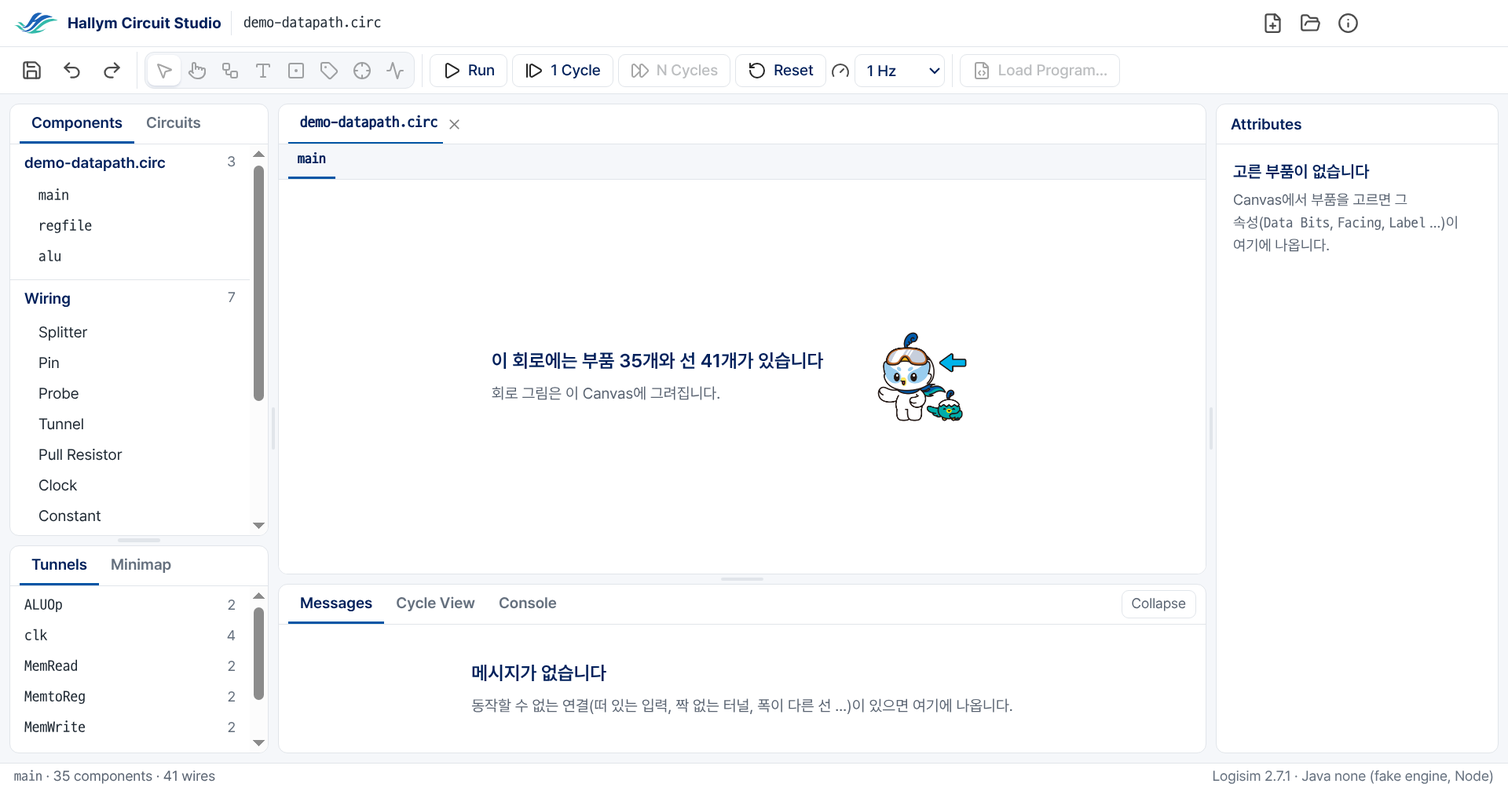
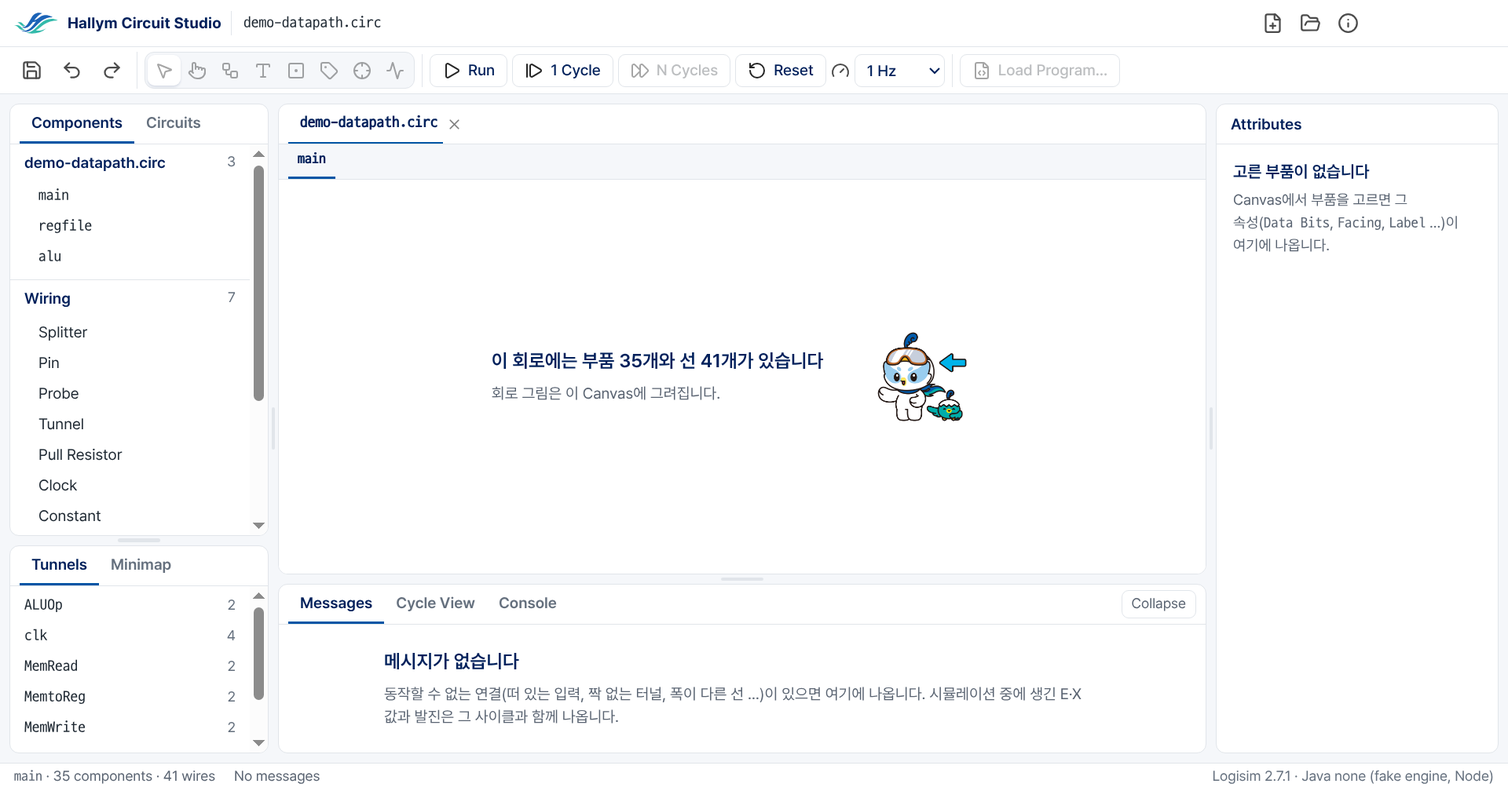
Document Messages in the engine API, parity table and decisions; retake screens

Changed region(s): [[0.25, 0.8304, 0.7188, 0.9226], [0.1875, 0.9841, 0.2188, 1.0], [0.1562, 0.9534, 0.1875, 0.9841]]

diff --git a/docs/DECISIONS.md b/docs/DECISIONS.md
@@ -1695,3 +1695,20 @@
 - **이유:** 사용자 결정이다. 어셈블을 Hallym MIPS 하나에 맡기면 두 도구가 같은 기계어를 쓰는 것이 파일 하나로 보장되고, 이 저장소에서 C++ 빌드·SPIM 소스·Windows 네이티브 빌드가 모두 빠진다. 오라클을 지우기 전에 굳혀 두면 SPIM 없이도 참조 CPU·디스어셈블러·메모리 배치가 SPIM과 같다는 것을 계속 확인한다. 옛 속성을 읽기만 하면 옛 과제 파일이 바이트까지 그대로다.
 - **대안(버림):** 옛 .s 경로를 열 때 자동으로 같은 이름의 .hmx로 바꾸기(학생 모르게 파일이 바뀌고 저장 바이트가 달라진다). 트랙 A에서 파일을 열 때 대화상자(`-tty`·헤드리스에서 깨지고 원조에는 부를 곳이 없다). 부품 몸체에 빨간 줄(진단처럼 읽힌다). `.s`를 받되 "지원하지 않음"만 말하기(할 일을 말하지 않는다). SPIM 시험을 "SPIM이 있으면 돌고 없으면 건너뜀"으로 두기(CI에서 늘 건너뛰어 아무것도 확인하지 않는다). deep factorial을 새 .hmx 파일로 굳히기(한 워드 차이를 시험 안에서 보이는 편이 읽기 쉽다). NOTICE에서 SPIM을 빼기(SPIM 프로그램의 목록이 저장소에 남는다). 사용자 문장을 글자 그대로 쓰기(문구 규칙 검사에 걸린다).
 - **테스트:** lib-mips `AssemblySourceTest`(경로 규칙, 파일·이미지 이름, 두 언어 문장과 문구 규칙), `AssemblySourceFileTest`(원조 2.7.1 + 이 jar: .s 경로의 옛 파일이 속성 그대로 열리고 같은 바이트로 저장, 메뉴 "Load .hmx for sum.s...", 옛 경로 다시 불러오기 = 문장, sum.hmx를 불러오면 IM·DM의 `source`가 `prog/sum.hmx`로 바뀌고 저장본에 .s 경로가 없음), `ProgramLoadIntegrationTest.anAssemblyFileGivesTheFactAndLoadsNothing`, `LoadSummaryTest.menuIsLoadProgramWithTheImageFilterOnly`(거르개 하나, 모든 파일 없음, 같은 이름 .hmx 골라 둠), `HmxConsistencyTest`(굳힌 이미지 15개 = SPIM 목록, `trackALoadsExecutableImagesOnly`), `RefMipsTest`(굳힌 오라클, 패치한 deep factorial), `SpimDumpListingTest`, `MergedDataMemoryTest`, `HallymMipsGoldenTest.oracleFilesSayHowTheyWereMade`, 돌연변이 테스트 대상에 `ProgramLoadIntegrationTest`를 더함. 엔진 `AssemblySourceEngineTest`(사실·속성 글·저장 같음, .hmx 경로는 사실 아님, 속성을 .hmx로 바꾸면 사실이 없어짐). 포크 앱 `CycleModelTest`, `CycleViewGuiTest.consoleTabShowsEveryOutputAndOldSourcesAreNotReloaded`, `PaletteTest`, `UiLanguageTest`. 저장소 검사 `verify-vendor`(logisim만, spim이 다시 생기면 실패), `check-engine-unchanged`, `check-upstream-markers`, 트랙 A 포장 스크립트를 로컬에서 돌려 zip에 jar·안내·라이선스만 있는지 봤다.
+
+## D-143 Messages(N-13): v1 진단을 엔진 API로, 두 벌 문구, 가까운 이름은 하나일 때만, 화면의 목록과 "이곳 보이기" 사건
+
+- **날짜:** 2026-09-28
+- **결정:**
+  1. **진단은 v1 코드 그대로, 화면 없는 부분만 떼어 쓴다.** 정적 검사(`StaticCheck`), 동적 검사(`DynamicCheck`: E 발생, X 쓰기), MIPS 값 검사(`MipsCheck`), 진동(`Oscillation`), E·X 출처(`OriginTrace`·`OriginText`)는 `:app`의 GUI 없는 코드를 그대로 부른다. Swing에 묶인 `Diagnostics`에서 목록 모으기(정적 목록, 기록 엔진이 적는 스텝마다 새 스텝만 보는 동적 목록, 진동 한 줄, 원인이 정적 진단과 같은 동적 진단 빼기, 진동 중이면 같은 고리의 조합 루프를 진동으로 바꾸기)를 새 GUI 없는 클래스 `kr.ac.hallym.hcs.app.diag.DiagnosticSet`으로 옮기고 `Diagnostics`(Swing 타이머·캔버스 이동)는 그것을 쓴다. 엔진 패키지(`com.cburch.*`)는 고치지 않았다.
+  2. **엔진 API(`docs/engine-api.md` "diag·trace"):** `diag.list {fileId}` → `{fileId, messages}`, 알림 `diag.changed {fileId, messages}`(목록 전체, 화면이 마지막으로 받은 목록과 다를 때만, 16ms 프레임에 묶어), `trace.origin {fileId, circuitId, path?, netId}` → `{found, text?, origin?, chain}`. 메시지 = 안정된 `id`(종류·회로·경로·부품·선·자리가 같은 동안 그대로), `code`(v1 `Diagnostic.Kind` 이름 14가지), `kind`(`static`·`dynamic`), `severity`(늘 `error`: 모든 메시지가 동작할 수 없는 회로다), `text {ko, en}`, `near?`, `location {circuitId, root, path, components, wires, nets, at, cycle?}`, `appeared?`(E·X가 처음 보인 자리). 구현은 `kr.ac.hallym.hcs.engine.diag`(`DiagService`, 파일마다 `DiagSession`, `DiagText`, `NearNames`).
+  3. **언제 다시 도나:** 편집·되돌리기 뒤 120ms 동안 조용하면 엔진 스레드에서 정적 검사(ref-mips 약 70ms). `diag.list`는 밀린 검사를 먼저 돈다. 동적 진단은 기록 엔진(v1 `Recorder`)의 청취자로 원조 시뮬레이터 스레드에서 새 스텝만 보고, 바뀌었다는 표시만 엔진 스레드로 넘긴다. **`sim.reset`은 `Recorder.requestReset`으로 한다**(원조 Reset + 기록을 스텝 0부터 다시): 그래야 Reset 뒤 동적 진단이 걷힌다(`SimSession` 한 줄). **파일을 열 때 기록 엔진이 첫 상태를 스텝 0으로 적을 때까지 잠깐(많아야 2초) 기다린다:** 엔진은 파일을 연 첫 전파를 기록 엔진이 붙기 전에 끝낼 수 있어, 곧바로 `sim.cycles`를 보내면 첫 틱 뒤 상태가 스텝 0이 되어 사이클 번호가 v1보다 하나 밀렸다(고장 회로 골든을 처음 만들 때 드러남).
+  4. **두 벌 문구, 이름 뒤 조사 없음:** 한 진단을 영어·한국어로 함께 보낸다. v1 진단은 만들 때 그 언어로 원인 문장을 박아 두었으므로, 안쪽 문장(원인, E 표기)을 키와 이름만 든 `Diagnostic.Text`로 바꿨다(v1 `message()`·`args()`는 지금 언어 글자를 그대로 준다: v1 테스트·기대 문구 불변). 문구 틀은 엔진 묶음 `kr/ac/hallym/hcs/engine/diag/messages{,_ko}.properties`에 새로 썼다: 한국어 틀은 이름 인자 바로 뒤에 조사를 붙이지 않고 부품·포트·회로·터널 같은 낱말을 둔다("main › PC (Register) 부품은 클럭 입력 clk 포트가 …", "main 회로에는 RegWirte 터널과 이름이 같은 다른 터널이 없습니다."). v1 Swing 문구(`messages_ko.properties`)는 그대로 둔다(N-27에서 지운다). lib-mips 몸체 글자(부품 언어로 한 벌만 나온다)는 알려진 꼴 10가지를 틀로 두 벌 다시 쓰고, 모르는 글은 두 언어 모두 그대로 둔다. **엔진의 원조 언어는 영어로 고정한다**(`Main`: `LocaleManager.setLocale(ENGLISH)`): 한국어 Windows의 기본 로캘을 따르면 포트 이름이 "출력"이 되어 이름은 영어라는 규칙(v2 7절)이 깨진다.
+  5. **가까운 이름(v1에 없던 새 규칙, 확신할 때만):** 짝 없는 터널(값을 받는데 같은 이름의 터널이 없음)에만 짚는다. 후보 = 같은 회로의 다른 터널 이름 가운데 그 이름의 터널에 같은 비트 폭이 있는 것. 가깝다 = 대소문자만 다름, 또는 두 이름 모두 4글자 이상이고 숫자만 다른 것이 아니며 편집 거리(넣기·빼기·바꾸기·붙은 두 글자 맞바꾸기, 대소문자 무시)가 짧은 쪽 7글자까지 1, 8글자부터 2 이하. 3글자 이하는 대소문자만 다를 때만. **후보가 정확히 하나일 때만** 문장 끝에 "혹시 RegWrite?"(영어 "Did you mean RegWrite?")를 붙이고 `near`로 준다. v1은 편집 거리 2 안의 이름을 폭과 상관없이 모두 늘어놓았다(v1 문구는 그대로 둔다).
+  6. **화면(electron):** Messages 패널(`src/renderer/app/messages.ts`, 모델 `logic/messages.ts`)은 엔진 순서의 종류별 묶음(영어 이름 + 개수), 한 줄 = 빨간 점·엔진의 한국어 문장(16진 주소는 D2Coding)·오른쪽 끝 사실(`main`, `main · Cycle 0`). 누르면 고른 줄을 표시하고 **"이곳 보이기" 사건**(`src/renderer/app/reveal.ts`, 창의 `hcs:reveal` CustomEvent: `{fileId, messageId, circuitId, root, path, components, wires, nets, at, cycle}`)을 보낸다. 앱은 그 파일·회로 탭을 보이고, Canvas(N-05)·Cycle View(N-14)는 같은 사건을 받아 부품·선·넷 표시와 인스턴스 진입, 사이클 이동을 한다(이 PR에서는 캔버스 코드를 고치지 않았다: feat/canvas가 아직 main에 없다). 새 목록이 와도 자리(스크롤)·고른 메시지(id)·키보드 초점을 지킨다(v1 D-124, Y-10). 발진 메시지가 있으면 Reset Simulation(Reset 뒤 Simulation Enabled 다시 켬). 빈 패널은 무엇이 채우는지 말한다. Messages 탭에 개수 배지, 상태 표시줄에 `No messages`·`1 message`·`N messages`(누르면 Messages 탭을 연다). **메시지가 있는 동안 화면의 캐릭터를 모두 숨긴다**(`body.messages-shown`, 오류 대화상자·띠와 같은 규칙: 캐릭터는 동작할 수 없다는 말 옆에 서지 않는다). 창이 부를 수 있는 메서드에 `diag.list`·`trace.origin`을 더했다.
+  7. **가짜 엔진의 진단은 진짜 엔진의 말이다:** `electron/tools/diag-fixture.ts`가 진짜 엔진으로 고장 회로 셋(`electron/tests/fixtures/broken-datapath.circ`: demo-datapath에서 RegWrite 터널 하나를 RegWirte로, PC 클럭 터널을 빼고, MemWrite 입력 핀을 3상태로 둔 것; `tests/circ/faults/dynamic-x-write-data.circ`; `dynamic-oscillation.circ`)의 처음 목록과 사이클 뒤 목록을 받아 `electron/tests/fixtures/messages.json`에 적는다(엔진 id 대신 회로 이름·부품 이름과 자리·선 끝). 가짜 엔진은 파일 이름으로 그것을 찾아 자기 id로 바꿔 답하고, `sim.cycles` 뒤·`sim.reset` 뒤 `diag.changed`를 보낸다. 엔진 `DiagFixtureTest`가 CI마다 진짜 엔진의 말과 같은지 본다(다르면 도구를 다시 돌리라고 알린다).
+  8. **정상 회로 모음(0건):** tests/circ 바로 아래 회로(values.circ 제외: 일부러 합선·떠 있는 출력을 만든다)와 데모, libs의 adder_check·ripple_carry, 참조 CPU 둘. 빼는 것과 까닭: faults/(고장 모음), flow/(Signal Flow 고정 회로: 값을 주지 않은 3상태 입력 핀, 일부러 둔 고리, 클럭 없는 Register — 엔진은 이것들을 정확히 알린다), libs/1bit_adder(다른 회로가 쓰는 서브회로 라이브러리라 혼자 열면 입력 핀이 떠 있다).
+  9. **고장 회로 모음에 가까운 이름 셋을 더했다(v1 생성기 `FaultCircuits`):** `static-tunnel-near-hit`(RegWirte → RegWrite, 같은 폭), `static-tunnel-near-width`(RegWrite가 32비트: 짚지 않음), `static-tunnel-near-ambiguous`(ALUSrc 옆에 ALUSrcA·ALUSrcB: 짚지 않음). 기존 `static-tunnel-unpaired`는 RegDest → RegDst로 짚는다. v1 기대 문구(`messages.{ko,en}.expected`)에 세 줄이 늘었고, v2 문구 골든은 `messages.v2.{ko,en}.expected`다.
+- **이유:** v2 지시 3-3("기존 GUI 없는 코드를 엔진으로 옮겨 그대로 쓴다, Swing에 묶인 부분은 떼어 낸다")과 절대 규칙 6(동작하지 않는 회로만, 원인 한 곳, 사실과 위치). 진단 논리를 복사하지 않고 한 곳(`DiagnosticSet`)에 두어야 v1과 v2가 같은 회로에 같은 말을 한다(고장 모음의 사이클 번호까지 같다). 가까운 이름은 틀린 짐작이 학생을 엉뚱한 곳으로 보내므로(v2 7절 "확신할 때만") 후보 하나·같은 폭일 때만 말하고, 번호로 가른 신호(`r1`·`r2`, `ALUOp0`·`ALUOp1`)와 짧은 이름(`rs`·`rt`)은 한 글자 차이가 흔한 다른 신호라 뺐다. "이곳 보이기"를 창 사건으로 둔 것은 캔버스·사이클 뷰가 다른 PR에서 동시에 만들어지고 있어서, 서로의 코드를 고치지 않고 한 모양으로 만나기 위해서다.
+- **대안:** `Diagnostics`를 복사해 엔진 쪽에 다시 쓰기(두 벌이 갈라진다). 엔진이 한 언어만 보내고 화면이 언어를 바꿀 때 다시 묻기(v2 문구는 두 벌을 함께 보내는 것이 `mips.facts`의 선례). v1 한국어 문구(`messages_ko.properties`)를 직접 고치기(v1 기대 파일·Swing 테스트가 흔들리고, Swing은 곧 지운다). lib-mips의 문구를 두 벌로 내게 바꾸기(트랙 A jar와 원조 2.7.1 쪽 동작까지 건드린다). 가까운 이름을 v1처럼 여럿 늘어놓기(확신이 없다), 모든 이름(포트·핀)으로 넓히기(근거가 약하다; 터널만 이름으로 이어진다). 편집마다 곧바로 정적 검사(연달은 의도에서 헛일, ref-mips 70ms가 쌓인다). 목록 대신 변경분만 보내기(목록이 짧아 이득이 없고 화면 쪽이 복잡해진다).
+- **테스트:** 엔진 `DiagTest` 11개(정상 회로 11개가 열 때·6사이클 뒤 0건과 비어 있지 않은 `diag.changed` 없음; 고장 회로 22개가 회로마다 한 줄·종류·`kind`·`severity`·내부 포트 이름 없음·"충돌"은 충돌에만·공백, v2 두 벌 골든; 가까운 이름 넷(짚음 둘, 폭·후보 둘로 안 짚음); 자리의 부품·선·넷 id가 스냅숏에 있음; 같은 원인의 id 유지·상관없는 편집·고쳐서 0건 한 번·되돌려 다시 한 줄; 동적 진단의 사이클·`appeared`·Reset에 걷힘; 발진이 조합 루프를 바꾸고 Reset에 돌아옴(고리에 NAND); `trace.origin`의 원인·두 벌 문장·chain의 넷 id·정해진 선·없는 넷과 경로 오류 1; gateUndefined가 error일 때만 빈 게이트 입력; ref-mips 정적 검사 시간(timing 태그); 없는 파일), `DiagFixtureTest`(화면 고정 답 = 진짜 엔진), `NearNamesTest` 4개, `DiagTextTest` 4개(두 언어 같은 키, 한국어 틀의 이름 뒤 조사 없음, 안쪽 문장 언어, lib-mips 글자 두 벌). v1 `:app:test`·`:app:guiTest` 그대로 통과(기대 문구에 가까운 이름 세 줄). 화면: 단위 7개(`messages.test.ts`: 묶음·순서·Other, 개수 문구, 자리 줄, reveal 사본·사이클, 고른 것 유지, 고정 답의 모양과 조사 규칙, 가짜 엔진의 diag.*), e2e 5개(`messages.e2e.ts`: 묶음과 개수·탭 배지·상태 표시줄, 누르면 사건·회로 탭·초점 유지·Tab·Enter, 사이클 뒤 동적 메시지와 고른 것 유지·Reset, 발진과 Reset Simulation, 빈 상태·No messages·파일 따라가기·개수 누르면 탭 열기·캐릭터)를 네 크기(1920×1032, 1536×816, 1280×672, 960×1032)에서 모두 통과, 진짜 엔진 선택 실행 e2e 1개(고장 회로의 목록이 고정 답과 같고 사이클 뒤 동적 메시지), 돌연변이 9개 모두 잡힘. 스크린샷 `messages-list.png`, `messages-empty.png`.

diff --git a/docs/engine-api.md b/docs/engine-api.md
@@ -16,7 +16,7 @@ Hallym Circuit Studio 2의 화면(Electron)과 Java 엔진(headless Logisim 2.7.
 - stdin·stdout: **JSON-RPC 2.0, 한 줄에 한 JSON 객체**(UTF-8, 줄 끝 `\n`). 요청은 `{"jsonrpc":"2.0","id":N,"method":"…","params":{…}}`, 응답은 `{"jsonrpc":"2.0","id":N,"result":…}` 또는 `"error":{"code","message","data"}`.
   - `id`는 숫자·글자 모두 된다(받은 그대로 돌려준다). `params`는 이름 있는 객체만 받는다(배열이면 -32602). 여러 요청을 배열로 묶은 요청(batch)은 받지 않는다(-32600).
   - 화면이 `id` 없이 보낸 것(알림)은 처리만 하고 응답하지 않는다.
-- 엔진이 먼저 보내는 알림은 `id`가 없다(`model.changed`, `sim.values`, `sim.state`, `engine.log`).
+- 엔진이 먼저 보내는 알림은 `id`가 없다(`model.changed`, `sim.values`, `sim.state`, `diag.changed`, `engine.log`).
 - stdout에는 규약 줄만 나온다. Logisim 코드가 `System.out`에 쓰는 것도 stderr로 돌린다. stderr는 사람이 읽는 로그다(화면은 파일에 남기지 않는다).
 - 요청은 순서대로 처리한다. 긴 일(N Cycles, Run Until)은 곧바로 응답하고 진행은 알림으로 보낸다. 편집의 `model.changed`는 그 편집의 응답 **뒤에**, 그 뒤의 `sim.values`보다 **앞에** 온다.
 - 끝: `engine.shutdown`에 응답한 뒤, 또는 stdin이 닫히면 열린 파일을 닫고 종료 코드 0으로 끝난다(저장하지 않는다). 메모리 전용 환경설정을 켜지 못하면 코드 3으로 바로 끝난다.
@@ -203,6 +203,61 @@ Component = {
 
 `sim.state = {fileId, running, ticking, cycle, oscillating, hz}` — 무엇이든 바뀌면 보내고(사이클 수만 바뀐 것은 프레임마다 많아야 한 번), N Cycles가 끝날 때와 Reset 뒤에도 보낸다. `running`은 원조 Simulation Enabled, `ticking`은 틱 켜짐, `cycle`은 Reset 뒤 끝난 틱 수의 절반, `hz`는 틱 주파수다.
 
+### diag·trace(Messages와 E/X 출처, N-13, D-143)
+
+| 메서드 | params | result |
+| --- | --- | --- |
+| `diag.list` | `{fileId}` | `{fileId, messages:[Message]}` |
+| `trace.origin` | `{fileId, circuitId, path?:[componentId], netId}` | `{found, text?, origin?, chain:[{circuitId, path, netId}]}` |
+
+알림 `diag.changed = {fileId, messages:[Message]}` — 목록 전체.
+
+```
+Message = {
+  id,                        // "d7": 같은 원인이 목록에 머무는 동안 그대로(문구·사이클이 바뀌어도)
+  code,                      // 아래 표
+  kind: "static"|"dynamic",  // 연결만 보고 찾음 | 시뮬레이션 중에 찾음
+  severity: "error",         // 모든 메시지는 "동작할 수 없는 회로"다(CLAUDE.md 2.6). 다른 값은 아직 없다
+  text: {ko, en},            // 한 문장(원인 한 곳, 학생이 붙인 이름, 사실과 위치까지만)
+  near?,                     // TUNNEL_UNPAIRED: 가까운 이름 하나("혹시 RegWrite?"), 확신할 때만
+  location: {
+    circuitId,               // 원인이 있는 회로
+    root, path:[componentId],// 맨 위 회로와 거기서 circuitId 인스턴스까지의 서브회로 부품들(static은 root = circuitId, path [])
+    components:[id], wires:[id], nets:[netId],   // 보일 부품·선·넷(원인 부품이 맨 앞)
+    at:[x,y]|null,           // 갈 곳(원인 포트나 부품 자리)
+    cycle?                   // dynamic: 사이클 뷰의 열(스텝 2c-1, 2c가 열 c)
+  },
+  appeared?: {circuitId, root, path, at, netId?}  // dynamic: E·X가 처음 보인(쓰려던) 자리. 원인 자리와 다를 수 있다
+}
+```
+
+| code | kind | 뜻(v1 `Diagnostic.Kind`와 같다) |
+| --- | --- | --- |
+| `CLOCK_UNCONNECTED` | static | 클럭 입력이 비어 값이 바뀌지 않는 부품(Register, 플립플롭, 쓰기가 있는 Data Memory, syscall이 있는 Console 등) |
+| `SHORT` | static | 떠 있을 수 없는 출력 둘이 한 선을 구동 |
+| `WIDTH_MISMATCH` | static | 한 선의 비트 폭 불일치(원조 계산) |
+| `INPUT_UNCONNECTED` | static | 비면 동작할 수 없는 입력(게이트의 빈 입력은 프로젝트 옵션 gateUndefined = error일 때만) |
+| `INPUT_UNDRIVEN` | static | 입력이 이어진 선에 값을 내는 것이 없음 |
+| `TUNNEL_UNPAIRED` | static | 값을 받는 터널의 이름이 회로에 하나뿐(`near`) |
+| `SUBCIRCUIT_PORT_UNCONNECTED` | static | 서브회로 인스턴스의 입력 포트가 비었음 |
+| `COMBINATIONAL_LOOP` | static | 조합 루프(발진 중이면 `OSCILLATION` 한 줄로 바뀐다) |
+| `MEMORY_OVERLAP` | static | Data Memory·Stack 영역 겹침 |
+| `E_APPEARED` | dynamic | E가 새로 생김, 원인 한 곳(E·X 출처) |
+| `X_WRITE_DATA` | dynamic | 클럭 에지에 쓸 값·주소가 정해지지 않아 쓰지 못함 |
+| `X_WRITE_CONTROL` | dynamic | 클럭 에지에 쓰기 허용 입력(en, MemWrite)이 정해지지 않음 |
+| `OSCILLATION` | dynamic | 원조가 발진으로 전파를 그만둠(`sim.state.oscillating`). 고리의 부품·선·넷 |
+| `MIPS_STATUS` | dynamic | Hallym MIPS 부품의 값 문제(영역 밖 주소, 워드 정렬, 스택 한계, syscall). 부품 몸체의 사실 |
+
+- **어느 회로가 동작할 수 없는지만 말한다.** 정상 회로(tests/circ의 엔진 회귀 회로·데모, 참조 CPU)는 열 때도, 사이클을 돌린 뒤에도 0건이다(`DiagTest`). 원인이 같으면 한 줄이다: 정적 진단과 같은 부품·선을 말하는 동적 진단은 빼고, 발진 중이면 같은 고리의 조합 루프 대신 발진 한 줄이다(v1 `DiagnosticSet`).
+- **순서:** 정적 진단(파일의 회로 순서, 그 안에서 표의 순서), 발진, 동적 진단(찾은 차례).
+- **문구:** 영어·한국어 두 벌을 함께 보내고 화면이 고른다. 이름(부품·포트·터널·회로)은 어느 PC에서나 영어이고 학생이 붙인 이름 그대로다(엔진의 원조 언어는 영어로 고정). 한국어 문장은 이름 바로 뒤에 조사를 붙이지 않는다(v2 지시 7절: "main › PC (Register) 부품은 …", "RegWirte 터널과 …"). 고장 회로 모음의 두 벌 문구가 `tests/circ/faults/messages.v2.{ko,en}.expected`에 있다.
+- **가까운 이름(`near`, D-143):** 짝 없는 터널과 가까운 다른 터널 이름이 **하나뿐**이고 그 이름의 터널에 같은 비트 폭이 있을 때만 짚는다. 가깝다 = 대소문자만 다름, 또는 두 이름 모두 4글자 이상이고 숫자만 다른 것이 아니며(`ALUOp0`·`ALUOp1`) 편집 거리(넣기·빼기·바꾸기·붙은 두 글자 맞바꾸기, 대소문자 무시)가 짧은 쪽 7글자까지 1, 8글자부터 2 이하. 3글자 이하(`rs`·`rt`)는 대소문자만 다를 때만. 후보가 둘 이상이거나 폭이 다르면 짚지 않는다.
+- **언제 바뀌나:** 편집·되돌리기 뒤 120ms 동안 다른 편집이 없으면 정적 검사를 다시 돈다(ref-mips 약 70ms, 엔진 스레드). 동적 진단은 기록 엔진이 스텝을 적을 때마다 새 스텝만 본다(원조 시뮬레이터 스레드). `sim.reset`은 기록을 스텝 0부터 다시 적으므로 동적 진단이 걷힌다. 발진은 원조가 전파를 그만둘 때 생기고 Reset으로 걷힌다.
+- **`diag.changed`:** 화면이 마지막으로 받은 목록(앞의 `diag.list` 결과나 `diag.changed`)과 다를 때만, 화면 프레임(16ms)에 묶어 보낸다. 파일을 연 직후 화면이 아는 목록은 빈 목록이다: 첫 검사에서 메시지가 나오면 곧 `diag.changed`가 온다(화면은 열자마자 `diag.list`를 물어도 된다). 넷 번호는 모델이 바뀔 때마다 다시 매기므로(`model.changed`와 같다) 편집 뒤 `location.nets`만 바뀐 목록도 온다. 그때도 `id`와 문구는 그대로다.
+- **파일을 열 때:** 기록 엔진이 붙은 뒤 첫 상태가 스텝 0으로 적힐 때까지 `file.open`·`file.new` 안에서 잠깐(많아야 2초) 기다린다. 그래야 곧바로 이어지는 `sim.cycles`에서도 사이클 번호가 v1과 같다.
+- **`trace.origin`:** 보이는 상태(맨 위 `circuitId`, 거기서 `path`로 내려간 인스턴스; 사이클 뷰가 지난 사이클을 보이면 그 상태)에서 넷 `netId`의 E·X가 처음 생긴 곳을 입력 쪽으로 거슬러 찾는다(v1 Find E/X Origin, D-01: MUX는 고른 입력만, 서브회로 경계와 스플리터 비트를 건넌다, 메모리는 주소·읽기 입력을 따라간다). `found:false`면 `text`가 따라갈 것이 없다는 문장이다. `origin`은 위 `location`과 같은 모양에 `cause`(`COMPONENT`·`UNDRIVEN`·`CONFLICT`·`ALL_OFF`·`INPUT_PIN`·`STORED`·`LOOP`), `value`(`"E"`·`"x"`), `text`(원인 문장 두 벌)가 붙는다. `chain`은 시작 넷부터 원인까지 지난 넷들(강조용)이다. 없는 넷·인스턴스는 오류 1.
+- **화면의 "이곳 보이기"(reveal):** 화면은 메시지를 누르면 `location`을 그대로 담은 사건(`electron/src/renderer/app/reveal.ts`, `hcs:reveal`: `{fileId, messageId, circuitId, root, path, components, wires, nets, at, cycle}`)을 보낸다. Canvas(N-05)가 그 회로·인스턴스로 가서 부품·선·넷을 표시하고, Cycle View(N-14)가 `cycle`로 간다.
+
 ## 6. 확장
 
-진단(Messages), E/X 출처, 영향 경로, Signal Flow, 기록(사이클 표, Registers·Memory·Instruction), MIPS(.hmx 불러오기, 디스어셈블, Console)는 각 N 항목에서 이 문서에 절을 더하며 늘린다. 메서드 이름은 `diag.*`, `trace.*`, `record.*`, `mips.*`로 묶는다(`mips.facts`는 5절에 있다).
+영향 경로, Signal Flow, 기록(사이클 표, Registers·Memory·Instruction), MIPS(.hmx 불러오기, 디스어셈블, Console)는 각 N 항목에서 이 문서에 절을 더하며 늘린다. 메서드 이름은 `trace.*`, `record.*`, `mips.*`로 묶는다(`mips.facts`는 5절, `diag.*`·`trace.origin`은 5절 끝에 있다).

diff --git a/electron/docs/screens/README.md b/electron/docs/screens/README.md
@@ -13,7 +13,7 @@ Every round, **all of them are retaken and overwritten** under the same names; n
 | `start.png` | The first screen: Haram & Hari (greeting), 안녕하세요!, the lead in two lines, 튜토리얼 보기 / 바로 시작; no toolbar; New, Open, About at the bar's right end; the status bar: Ready and the engine's versions | As started |
 | `start-tutorial.png` | Step 2 of the same card: 논리설계 및 실험 / 컴퓨터구조, "← 처음으로"; the card's box and everything but the choices exactly as in `start.png` (the e2e test compares the pixels) | 튜토리얼 보기 |
 | `start-2.png` | Step 2: 새 회로 / 파일 열기 (Ctrl+O) | ← 처음으로, 바로 시작 |
-| `new-circuit.png` | A new circuit: the toolbar in the bar (Save Undo Redo · the Canvas tools, off until there is a Canvas · Run, 1 Cycle, N Cycles, Reset, speed · Load Program…), the file and circuit tabs, Components (the file's circuits first, then the engine's library), the empty Canvas's word with Haram & Hari (guiding), Attributes, Tunnels, Messages: every empty panel says what fills it, the words alone; the status bar's facts in English (`main · 0 components · 0 wires`) | 새 회로 |
+| `new-circuit.png` | A new circuit: the toolbar in the bar (Save Undo Redo · the Canvas tools, off until there is a Canvas · Run, 1 Cycle, N Cycles, Reset, speed · Load Program…), the file and circuit tabs, Components (the file's circuits first, then the engine's library), the empty Canvas's word with Haram & Hari (guiding), Attributes, Tunnels, Messages: every empty panel says what fills it, the words alone; the status bar's facts in English (`main · 0 components · 0 wires`, `No messages`) | 새 회로 |
 | `open-file.png` | Two files open (tabs), `demo-datapath.circ` on show: the Canvas says what the circuit holds (35 components, 41 wires), Tunnels by label with counts, the status bar's facts | Ctrl+O → `tests/circ/demo-datapath.circ` |
 | `circuit-tabs.png` | Circuits: the file's three, the main one marked with a house icon ("Main circuit"), `regfile` opened as a second circuit tab; 1 Cycle twice: the engine's `sim.state` in the status bar (Cycle 2); Attributes still in its column | Circuits → regfile, 1 Cycle ×2 |
 | `about.png` | About: the version; Based on Logisim 2.7.1 by Carl Burch (GNU GPL, version 2 or later); Hallym MIPS Simulator (BSD 3-Clause); the marks are Hallym University's, commercial use prohibited, not an official product; the engine, Electron, Chromium, Node.js | About (ⓘ) |
@@ -21,6 +21,8 @@ Every round, **all of them are retaken and overwritten** under the same names; n
 | `dialog-error.png` | The window's own dialog for an error, in the window's words (not the engine's): a sentence title, `File: lab3.circ` (the name only), what happened and what to do, one button (Close); **no character anywhere** while it is up (the Canvas's guide is hidden too); the backdrop darkens the window | Ctrl+O → a file that is not there |
 | `engine-restarted.png` | The engine ended (a crash) and started again: the band ("엔진이 멈춰서 다시 시작했습니다 · 열려 있던 파일 2개를 닫았습니다"), the first screen with its character hidden while the band says something went wrong | the engine killed from the test |
 | `engine-failed.png` | No engine: "엔진을 시작하지 못했습니다" with what was tried — "엔진 파일이 없습니다: hcs-engine.jar" and where (`/opt/hcs/hcs-engine.jar`), Close / Try Again, no character anywhere; the red band behind; the status bar | `HCS_ENGINE_JAR` pointing at nothing |
+| `messages-list.png` | Messages (N-13): a broken circuit (`electron/tests/fixtures/broken-datapath.circ`) after one cycle — three groups by kind with a count each (Clock not connected, Tunnel without a pair, Undefined write input), each message the engine's Korean sentence with the student's names in English and no particle right after a name, "혹시 RegWrite?" (the one near name), where on the right (`main`, `main · Cycle 0` for what the simulation found); the chosen message marked; the tab's count badge (3) and the status bar's `3 messages`; **no character anywhere** while there are messages (the Canvas's guide hidden, its place kept). The fake engine answers with the real engine's words (`tests/fixtures/messages.json`, `tools/diag-fixture.ts`) | Ctrl+O → the broken circuit, 1 Cycle, the second message |
+| `messages-empty.png` | A circuit with nothing to say (`demo-datapath.circ`): the Messages panel says what fills it (connections that cannot work, E·X values and oscillations with their cycle), no badge on the tab, the status bar's `No messages`; the Canvas's guide back | then Ctrl+O → `tests/circ/demo-datapath.circ` |
 | `lab-125.png` | A 1920×1080 lab PC at 125 %: CSS 1536×816 drawn at 1.25; three columns | `--force-device-scale-factor=1.25`, the file open |
 | `lab-150.png` | At 150 %: CSS 1280×672 drawn at 1.5; the toolbar in its own row under the bar (the bar gives way in steps: key hints, the tools' names; the row takes them again); English names in Korean sentences whole on one line (Attributes: `Data Bits`) | `--force-device-scale-factor=1.5`, the file open |
 | `narrow.png` | Half a 1920 screen (960×1032): no right column, Attributes a tab of the left panel (on show); the toolbar in its own row | 960×1032, Attributes tab |
